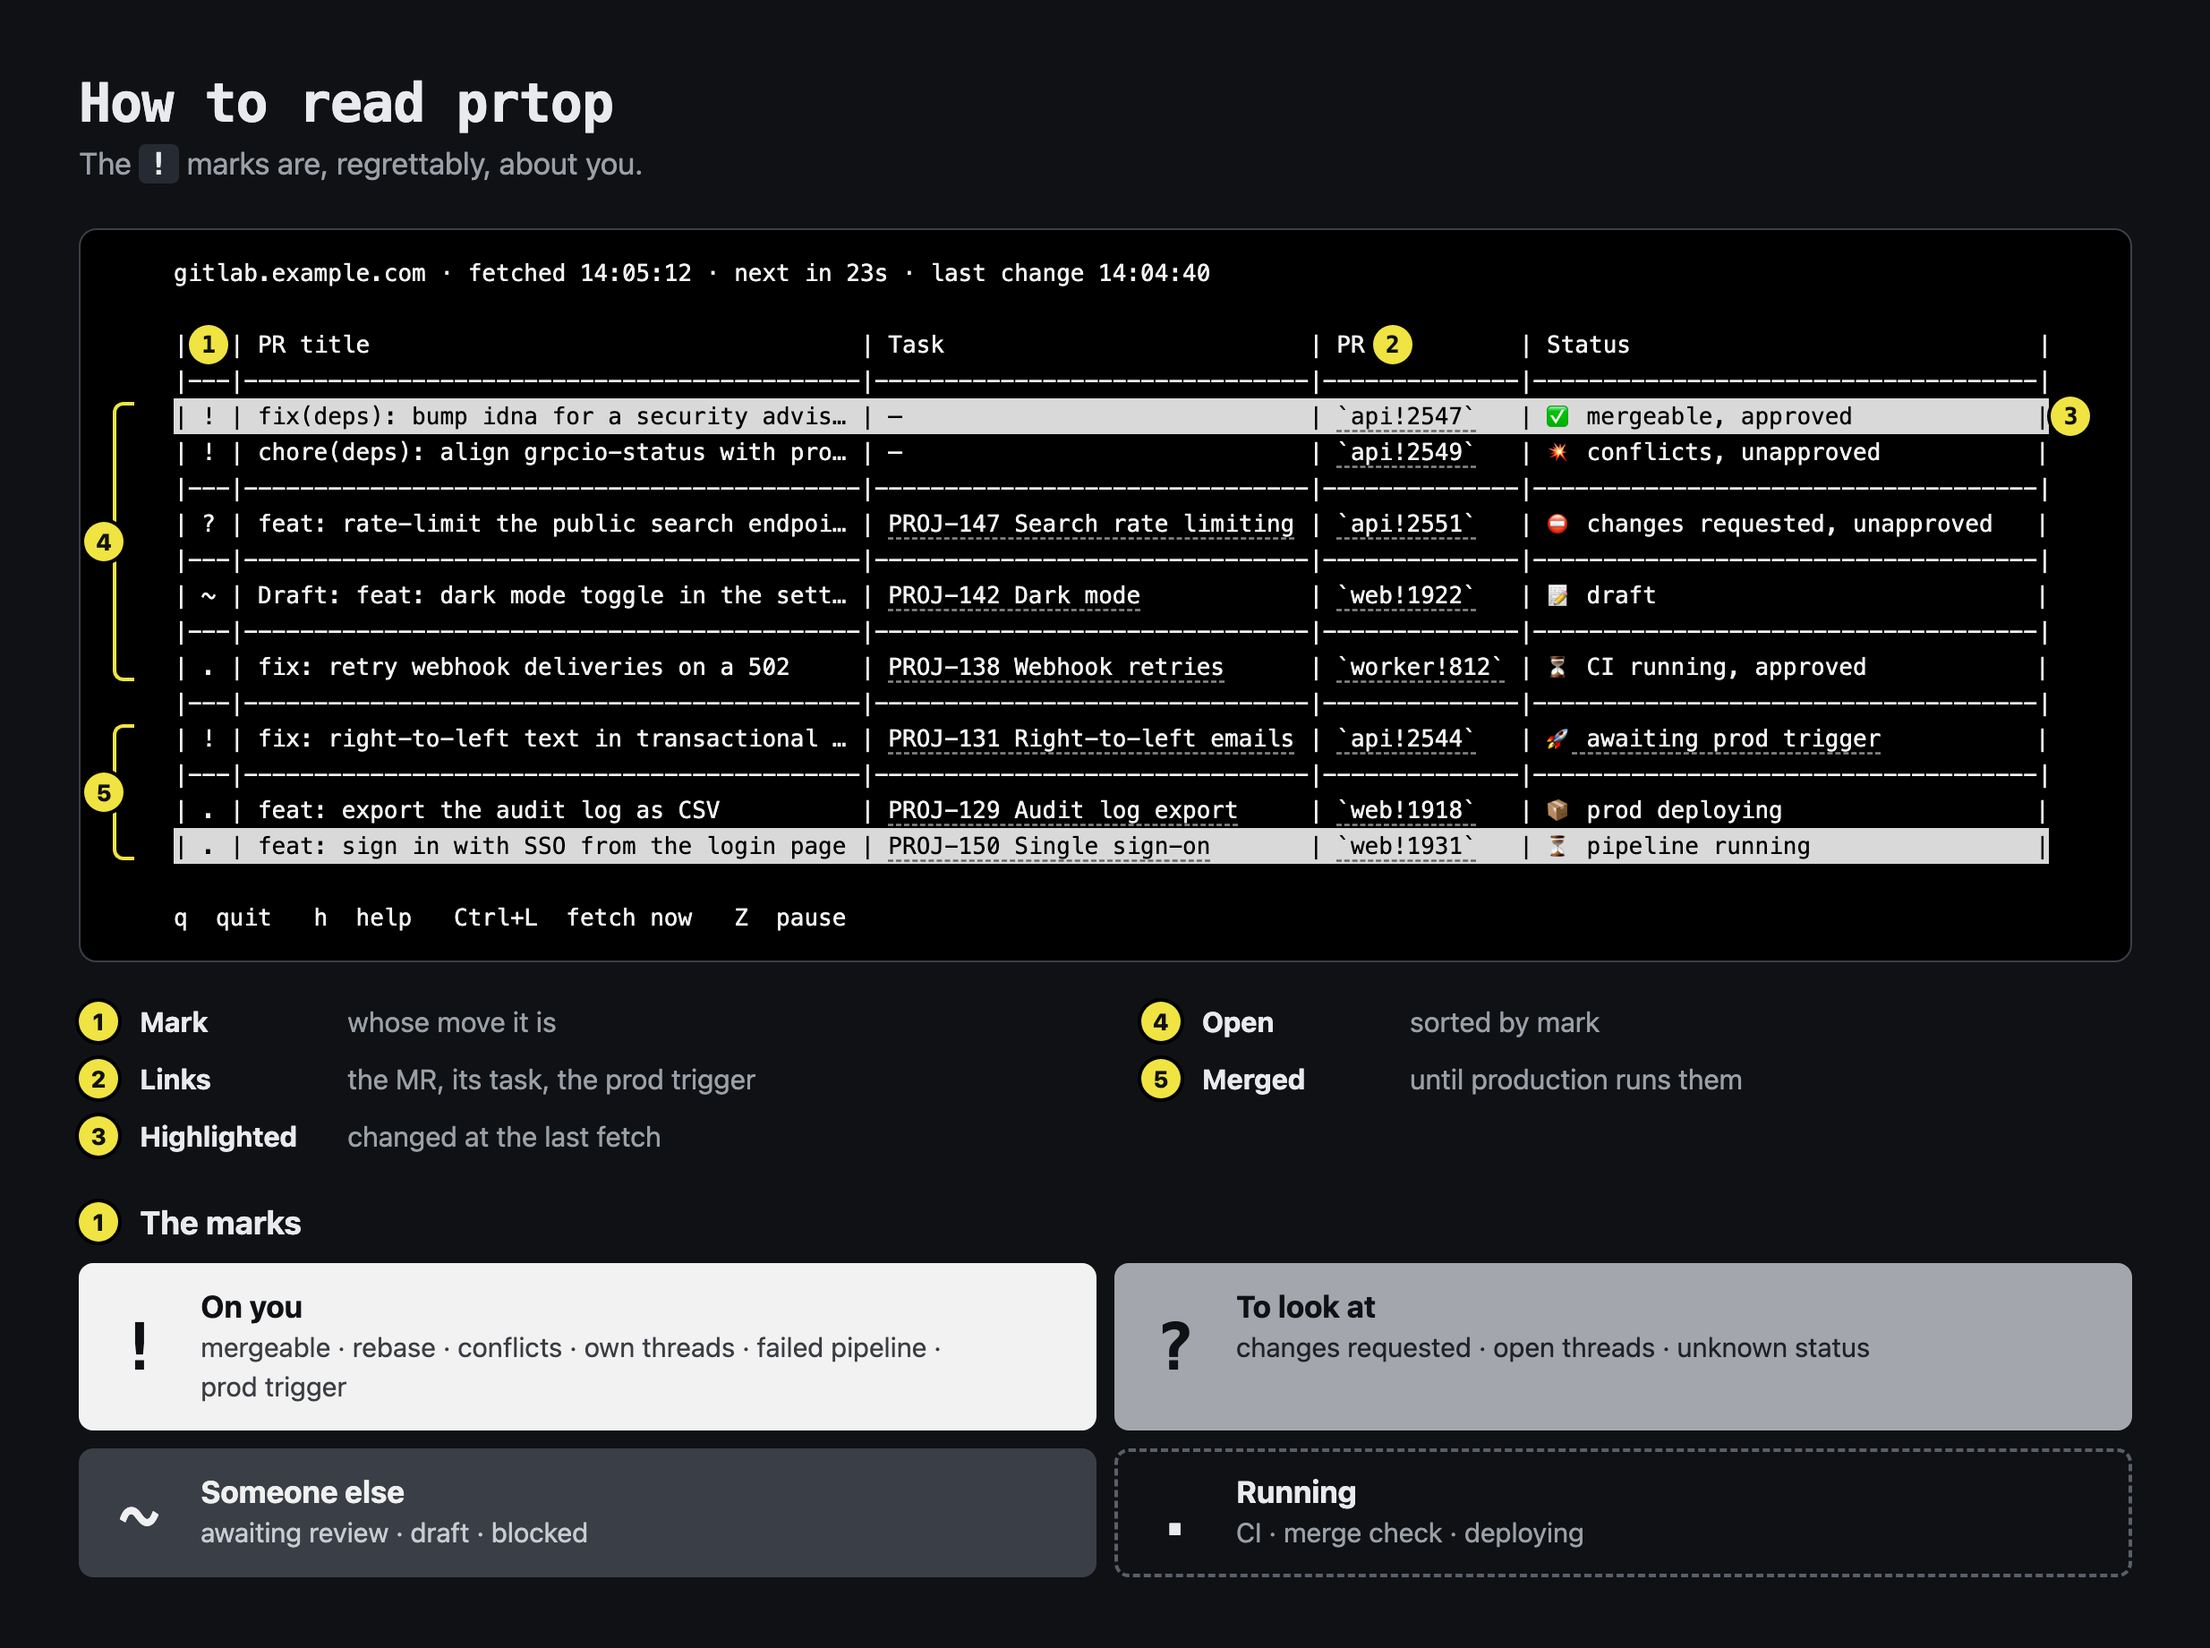
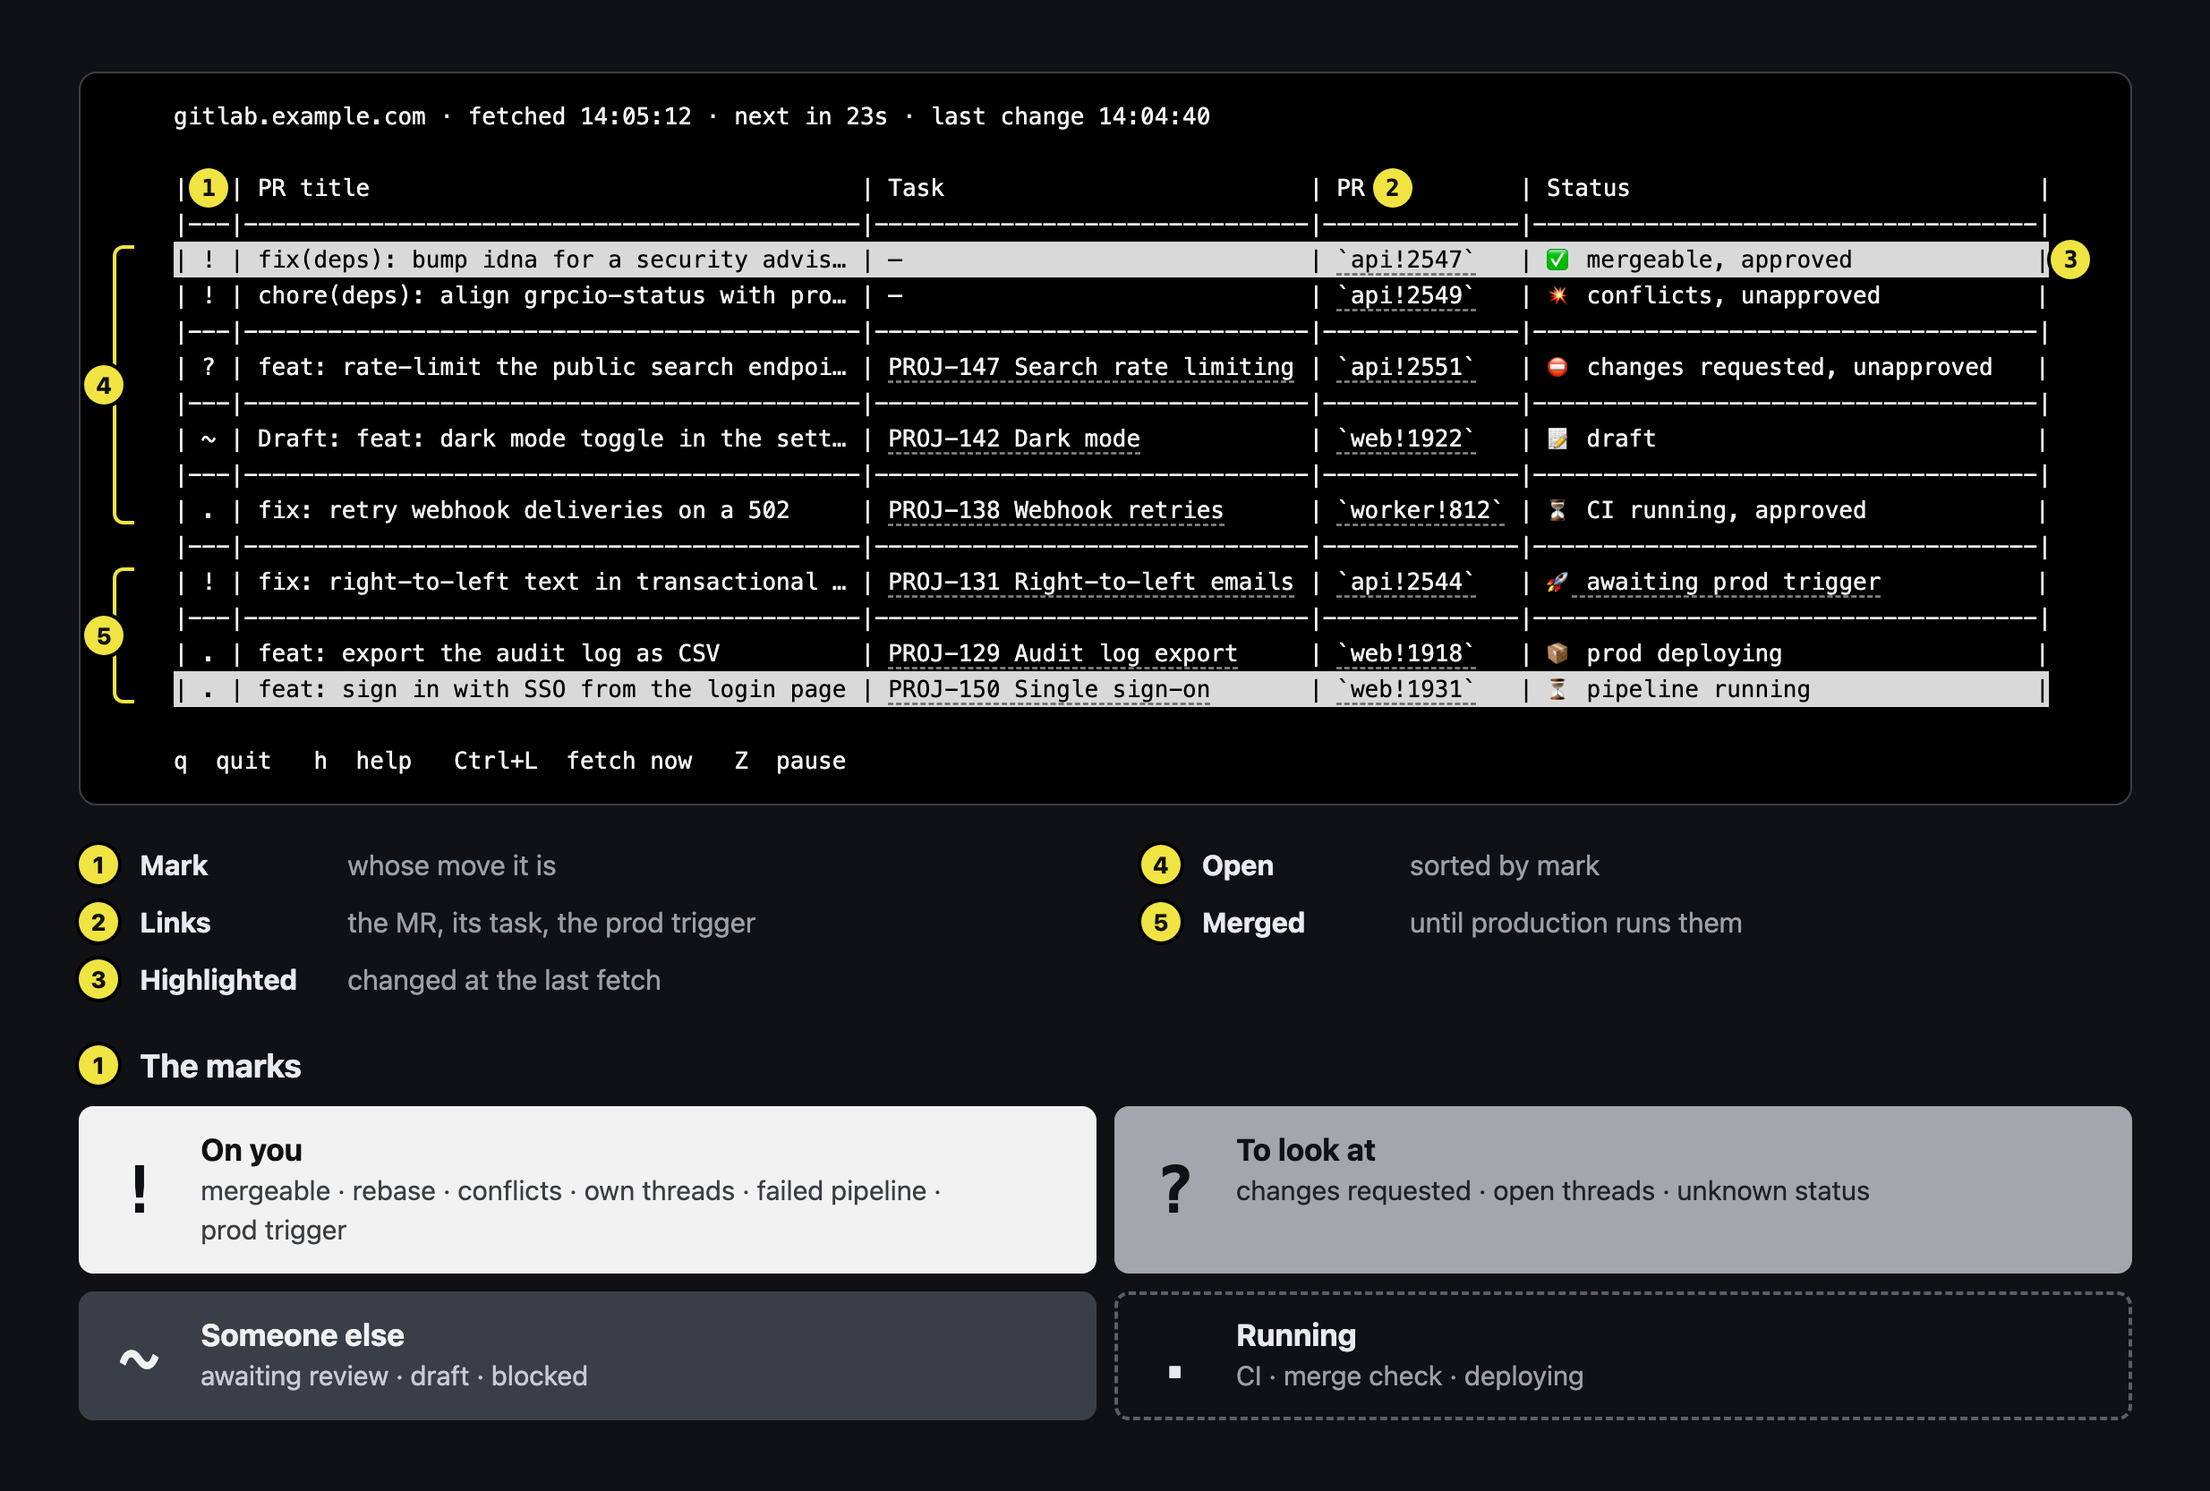
docs: title the section How to read prtop in Markdown, and end the website on it

diff --git a/docs/infographic/how_to_read_prtop.py b/docs/infographic/how_to_read_prtop.py
@@ -109,11 +109,8 @@ CSS = """
   body { font-family: var(--sans); padding: 40px 44px 44px; background: #0f1115; color: #e8eaed; }
   /* prtop's output sets the width; everything else wraps under it. */
   .sheet { width: min-content; }
-  h1 { font-family: var(--mono); font-size: 30px; letter-spacing: -0.5px; white-space: nowrap; }
-  .lede { font-size: 17px; margin-top: 6px; color: #9aa0a6; }
-  .lede code { font-family: var(--mono); font-weight: 800; color: #e8eaed; background: #262b33; padding: 1px 6px; border-radius: 4px; }
   .term { position: relative; width: max-content; background: #000; color: #f2f2f2; border: 1px solid #3a3f47;
-          border-radius: 10px; padding: 14px 44px 14px 52px; font-family: var(--mono); font-size: 13px; margin-top: 26px; }
+          border-radius: 10px; padding: 14px 44px 14px 52px; font-family: var(--mono); font-size: 13px; }
   .ln { height: 20px; line-height: 20px; white-space: pre; width: max-content; }
   .ln.hl { background: #d9d9d9; color: #000; }
   .emo { display: inline-block; width: 2ch; font-size: 12px; }
@@ -184,10 +181,8 @@ def page() -> str:
         for i, (glyph, name, examples) in enumerate(MARKS)
     )
     return f"""<!doctype html>
-<html lang="en"><head><meta charset="utf-8"><title>How to read prtop</title><style>{CSS}</style></head>
+<html lang="en"><head><meta charset="utf-8"><title>prtop, annotated</title><style>{CSS}</style></head>
 <body><main class="sheet">
-  <h1>How to read prtop</h1>
-  <p class="lede">The <code>!</code> marks are, regrettably, about you.</p>
   <div class="term">{output}{callouts}</div>
   <ol class="notes">{notes}</ol>
   <section class="marks">

diff --git a/README.md b/README.md
@@ -76,9 +76,9 @@ When its output is not a terminal (a pipe, a file, a script, an AI agent), prtop
 prints the table once and exits. Errors go to stderr, so the output stays one
 table.
 
-## Reading the table
+## How to read prtop
 
-![How to read prtop. 1, the mark says whose move it is: ! on you (mergeable, rebase, conflicts, own threads, failed pipeline, prod trigger), ? to look at (changes requested, open threads, unknown status), ~ someone else (awaiting review, draft, blocked), . running (CI, merge check, deploying). 2, links open the merge request, its task and the prod trigger. 3, highlighted rows changed at the last fetch. 4, open merge requests, sorted by mark. 5, merged ones, until production runs them.](docs/public/how-to-read-prtop.png)
+![prtop's live view, annotated. 1, the mark says whose move it is: ! on you (mergeable, rebase, conflicts, own threads, failed pipeline, prod trigger), ? to look at (changes requested, open threads, unknown status), ~ someone else (awaiting review, draft, blocked), . running (CI, merge check, deploying). 2, links open the merge request, its task and the prod trigger. 3, highlighted rows changed at the last fetch. 4, open merge requests, sorted by mark. 5, merged ones, until production runs them.](docs/public/how-to-read-prtop.png)
 
 ## Configuration
 
